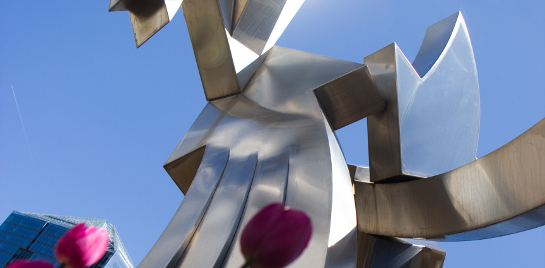
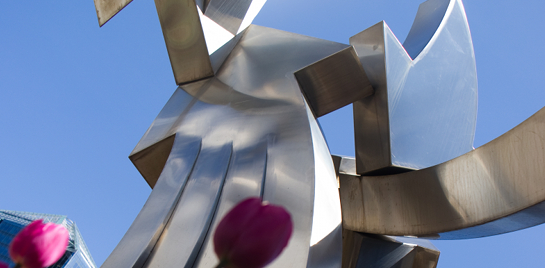
tweeked silverInternet12 jpg so it had more statue and less sky. Also centered text vertically.

diff --git a/home.css b/home.css
@@ -229,7 +229,7 @@ a.minor-link:active {background-color:#838F9D;color:#fff;border-color:#A2ABB6;}
     font-size:22px;
     font-weight:400;
     line-height:1.2em;
-    margin:80px 0px 0px 0px;
+    margin:84px 0px 0px 0px;
     padding:10px 8px 10px 10px;
     color:#fff;
   }
